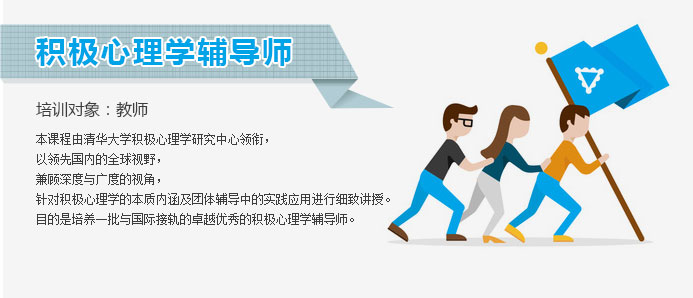
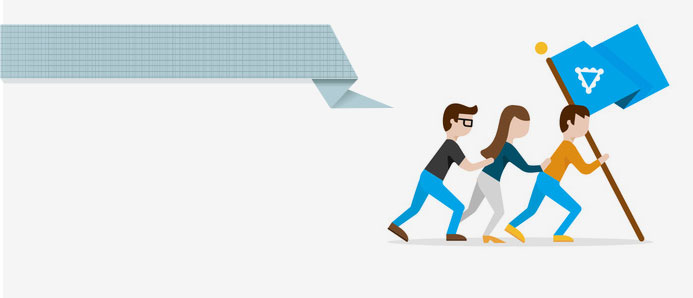
add change img

diff --git a/hero-game.html b/hero-game.html
@@ -73,20 +73,28 @@
     <!-- banner 开始  -->
     <div id="header-banner" class="col-md-10 col-md-offset-1">
            <div class="banner">
-               <a href="#"><img src="img/banner-hay.png" alt="幸福职教" width="1024" height="304"></a>
+               <a href="#"><img src="img/wind-banner.jpg" alt="幸福职教" width="701" height="304"></a>
            </div>
     </div>
     <!-- banner 结束 -->
 
     <!-- 左边区域 开始 -->
     <div id="left-content" class="col-md-7 col-md-offset-1">
+      <div class="left_column col-lg-8">
         <div class="train-hero">
             <div class="more-mes">
                 <a href="#">更多>>></a>
             </div>
             <div class="train-img">
-                <a href="#" type="button" class="train-campbtn train-btn btn "> 我感兴趣
-                </a>
+              <img src="img/psychology-p.png" alt="标题：积极心理学辅导师" width="262px" height="34px">
+              <p class="psychology-th">培训对象：教师</p>
+              <p>本课程由清华大学积极心理学研究中心领衔，<br>
+              以领先国内的全球视野，<br>
+              兼顾深度与广度的视角，<br>
+              针对积极心理学的本质内涵及团体辅导中的实践应用进行细致讲授。<br>
+              目的是培养一批与国际接轨的卓越优秀的积极心理学辅导师。<br>
+              <a href="#" type="button" class="train-campbtn train-btn btn "> 我感兴趣
+              </a>
             </div>
         </div>
 
@@ -212,26 +220,24 @@
                 <img src="img/mine-bot.jpg" alt="星际中秀出你自己">
             </a>
         </div>
-
+      </div>
     </div>
     <!-- 左边区域 结束 -->
     <div id="right-content" class="col-md-3">
         <!-- 用户信息 开始 -->
         <div class="user-content user-info">
             <div class="user_name">
-                <span>
-                    <a href="#" class="user_header"><img class="u-header-photo" src="img/head-file.jpg" alt="人物头像" width="72px" height="72px"></a>
+                <span class="space-user">
+                    <a href="#" class="user_header"><img class="s-header-photo" src="img/space-head.jpg" alt="人物头像" width="50px" height="50px"></a>
                     <dl id="user_sc">
                         <dt class="name">邢伟伟</dt>
-                        <dt class="school_name"><span class="glyphicon glyphicon-stats" aria-hidden="true"></span> 北京市八十一中学</dt>
+                        <dt class="school_name"><span class="school-icon"></span> 北京市八十一中学</dt>
                     </dl>
                 </span>
-
 
             </div>
 
             <div class="user_friend">
-                <hr />
                 <a class="btn btn-info"><span class="glyphicon glyphicon-user" aria-hidden="true"></span>好友 <span class="badge">10</span></a>
                 <a class="btn btn-info"><span class="glyphicon glyphicon-heart" aria-hidden="true"></span>收藏 <span class="badge">10</span></a>
             </div>
@@ -240,7 +246,8 @@
 
         <!-- 我的标签 开始 -->
         <div class="user-content user-tag">
-
+          <h4>我的标签</h4>
+          <img src="img/share-icon.png" alt="分享">
         </div>
         <!-- 我的标签 结束 -->
 

diff --git a/index.html b/index.html
@@ -83,9 +83,15 @@
         <!-- 快乐大本营 开始 -->
         <div class="happy-content happy-camp">
             <div class="p-little-img">
-                <img src="img/happy-camp.png">
+              <img src="img/happy-camp.png">
+            <ul class="list-inline">
+              <li><a href="#">解读快乐英雄 </a></li>|
+              <li><a href="#">快乐测评 </a></li>|
+              <li><a href="#">快乐演习</a></li>|
+              <li><a href="#">快乐分享</a></li>
+            </ul>
             </div>
-
+           
             <div class="c-carousel">
                 <!-- main slider carousel -->
                 <div class="row" >
@@ -160,6 +166,11 @@
         <div class="happy-context hero-wind">
             <div class="p-little-img">
                 <img src="img/hero-camp.png">
+            <ul class="list-inline">
+              <li><a href="#">英雄训练营 </a></li>|
+              <li><a href="#">英雄师徒行</a></li>|
+              <li><a href="#">英雄大秀场</a></li>
+            </ul>
             </div>
 
             <div class="container show_hero">
@@ -366,11 +377,11 @@
         <!-- 用户信息 开始 -->
         <div class="user-content user-info">
             <div class="user_name">
-                <span>
-                    <a href="#" class="user_header"><img class="u-header-photo" src="img/head-file.jpg" alt="人物头像" width="72px" height="72px"></a>
+                <span class="space-user">
+                    <a href="#" class="user_header"><img class="s-header-photo" src="img/space-head.jpg" alt="人物头像" width="50px" height="50px"></a>
                     <dl id="user_sc">
                         <dt class="name">邢伟伟</dt>
-                        <dt class="school_name"><span class="glyphicon glyphicon-stats" aria-hidden="true"></span> 北京市八十一中学</dt>
+                        <dt class="school_name"><span class="school-icon"></span> 北京市八十一中学</dt>
                     </dl>
                 </span>
 
@@ -378,16 +389,16 @@
             </div>
 
             <div class="user_friend">
-                <hr />
-                <a class="btn btn-info"><span class="glyphicon glyphicon-user" aria-hidden="true"></span>好友 <span class="badge">10</span></a>
-                <a class="btn btn-info"><span class="glyphicon glyphicon-heart" aria-hidden="true"></span>收藏 <span class="badge">10</span></a>
+                <a class="btn btn-info"><span class="glyphicon glyphicon-user" aria-hidden="true" ></span> 好友 <span class="badge">10</span></a>
+                <a class="btn btn-info"><span class="glyphicon glyphicon-heart" aria-hidden="true"></span> 收藏 <span class="badge">10</span></a>
             </div>
         </div>
         <!-- 用户信息 结束 -->
 
         <!-- 我的标签 开始 -->
         <div class="user-content user-tag">
-
+          <h4>我的标签</h4>
+          <img src="img/share-icon.png" alt="分享">
         </div>
         <!-- 我的标签 结束 -->
 

diff --git a/happy-camp.html b/happy-camp.html
@@ -74,7 +74,7 @@
     <!-- banner 开始  -->
     <div id="header-banner" class="col-md-10 col-md-offset-1">
            <div class="banner">
-               <a href="#"><img src="img/banner-hay.png" alt="幸福职教" width="1024" height="304"></a>
+               <a href="#"><img src="img/camp-banner.jpg" alt="幸福职教" width="700" height="304"></a>
            </div>
     </div>
     <!-- banner 结束 -->
@@ -243,19 +243,17 @@
         <!-- 用户信息 开始 -->
         <div class="user-content user-info">
             <div class="user_name">
-                <span>
-                    <a href="#" class="user_header"><img class="u-header-photo" src="img/head-file.jpg" alt="人物头像" width="72px" height="72px"></a>
+                <span class="space-user">
+                    <a href="#" class="user_header"><img class="s-header-photo" src="img/space-head.jpg" alt="人物头像" width="50px" height="50px"></a>
                     <dl id="user_sc">
                         <dt class="name">邢伟伟</dt>
-                        <dt class="school_name"><span class="glyphicon glyphicon-stats" aria-hidden="true"></span> 北京市八十一中学</dt>
+                        <dt class="school_name"><span class="school-icon"></span> 北京市八十一中学</dt>
                     </dl>
                 </span>
-
 
             </div>
 
             <div class="user_friend">
-                <hr />
                 <a class="btn btn-info"><span class="glyphicon glyphicon-user" aria-hidden="true"></span>好友 <span class="badge">10</span></a>
                 <a class="btn btn-info"><span class="glyphicon glyphicon-heart" aria-hidden="true"></span>收藏 <span class="badge">10</span></a>
             </div>
@@ -264,7 +262,8 @@
 
         <!-- 我的标签 开始 -->
         <div class="user-content user-tag">
-
+          <h4>我的标签</h4>
+          <img src="img/share-icon.png" alt="分享">
         </div>
         <!-- 我的标签 结束 -->
 
